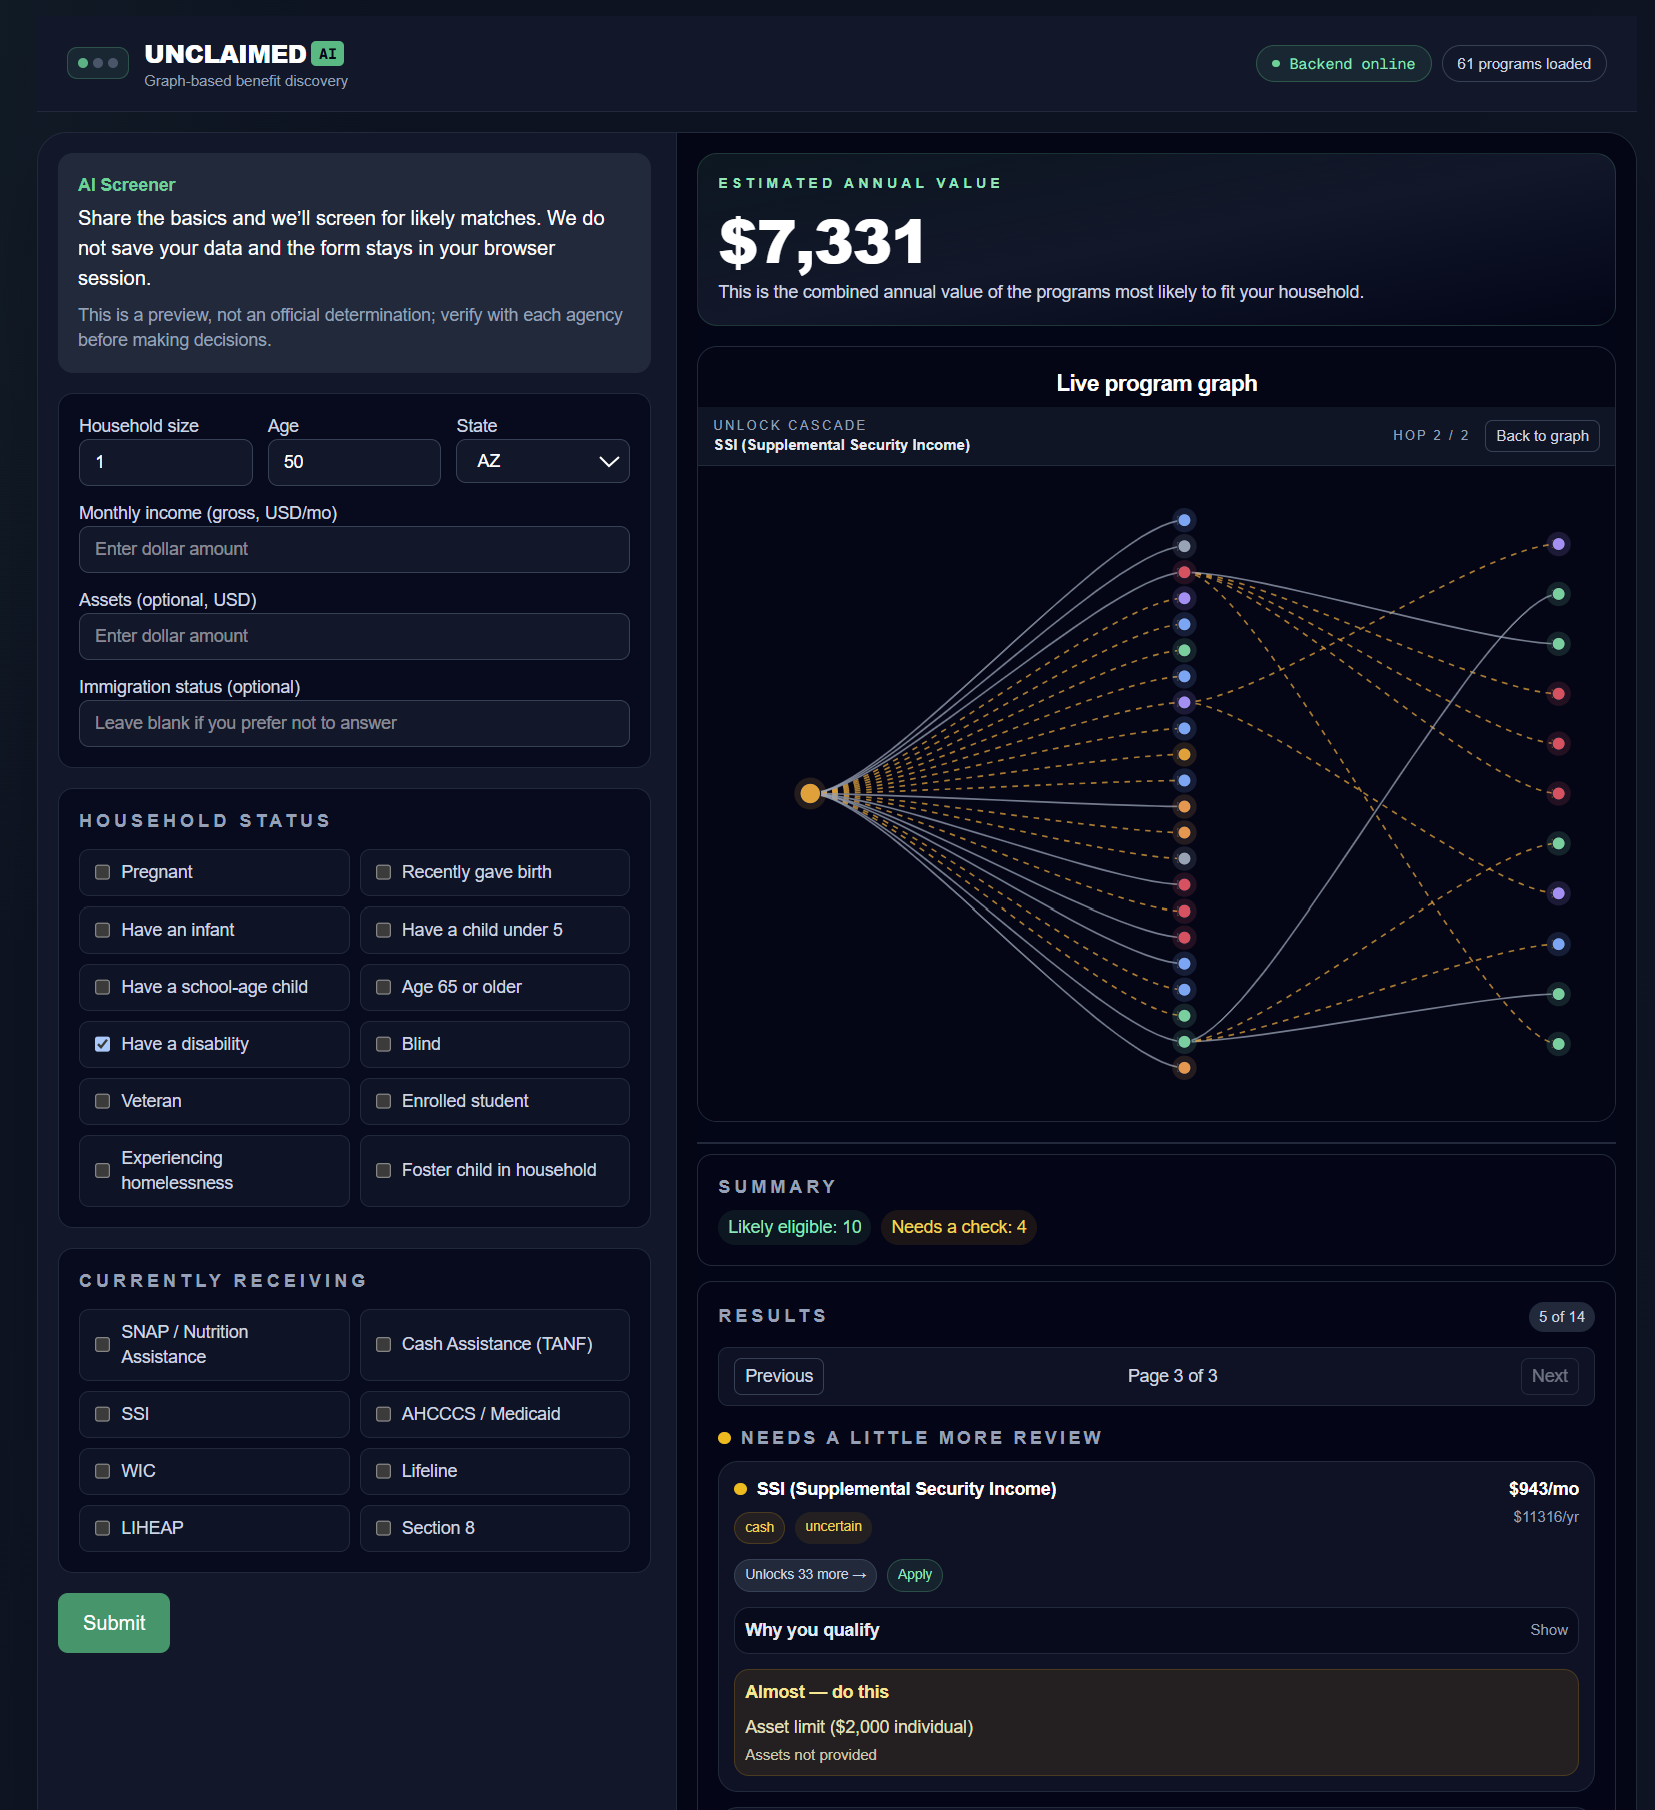
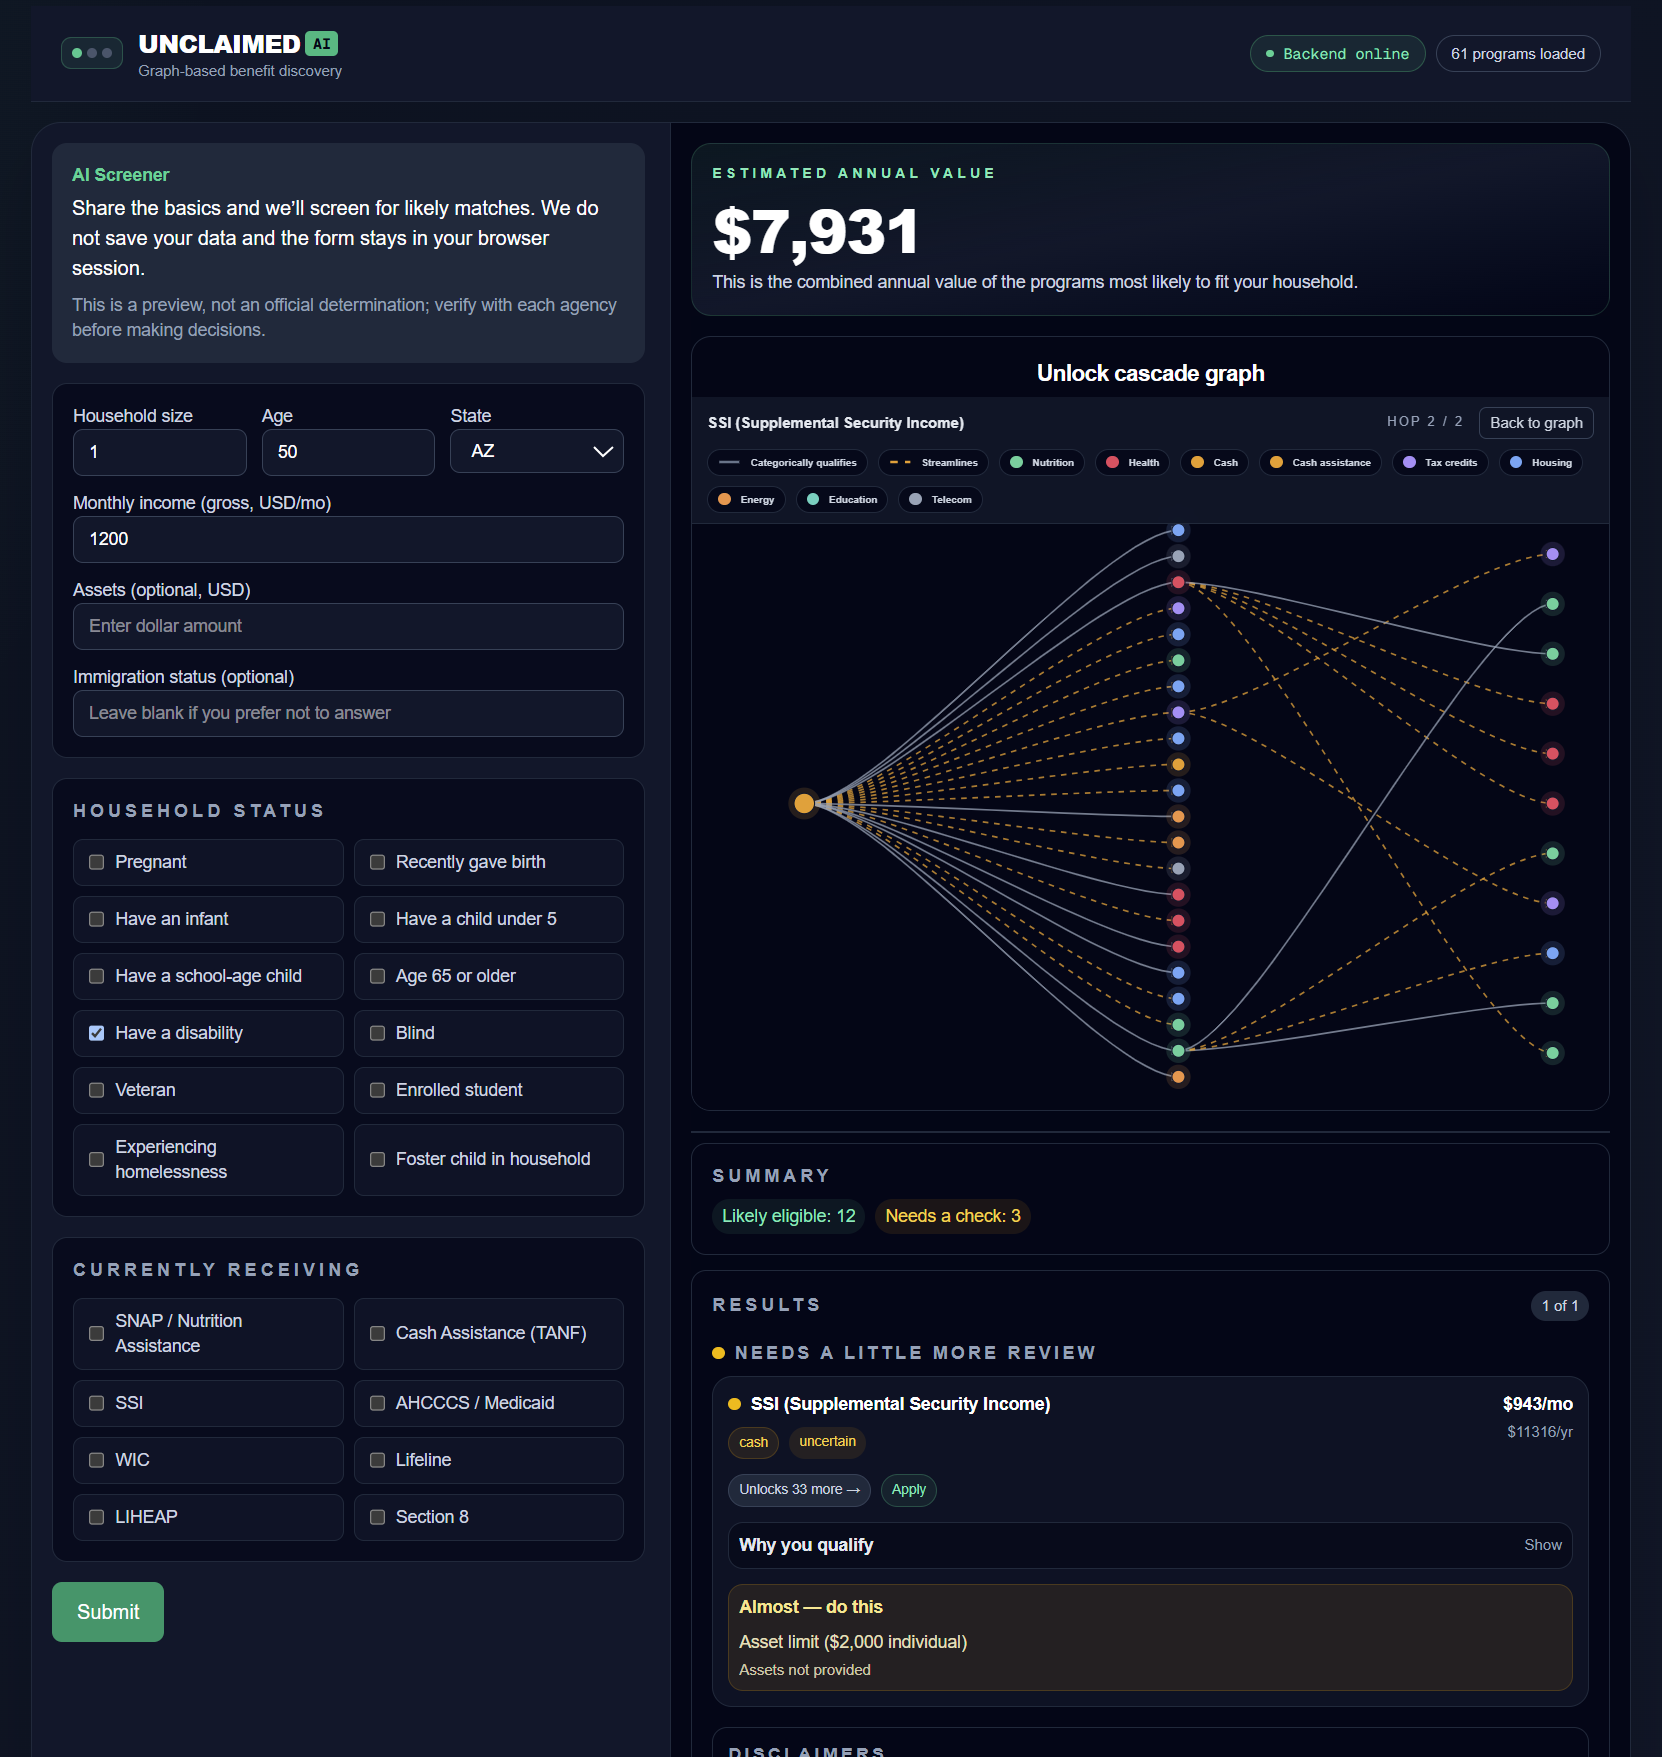
feat: update demo script for clarity and expand timing; add new screenshots for dashboard cascade

diff --git a/README.md b/README.md
@@ -20,39 +20,39 @@ Unclaimed helps people move from confusion to confidence and from missed support
 
 ## 2-Minute Demo Script
 
-### 0:00-0:20
+### 0:00-0:24
+Hi, I am Amber.
 Today I’m showing Unclaimed, an AI-powered benefits copilot.
 The problem is simple: millions of people qualify for support but never claim it because the system is fragmented and hard to navigate.
 Unclaimed turns that complexity into clear, actionable next steps.
+
+### 0:24-0:38
 Currently, this demo focuses on US-based programs but could be expanded worldwide.
+On the left, I am going to go ahead and enter some household details into this form.
 
-### 0:20-0:45
-On the left, I enter household details in a guided intake form.
-This is intentionally lightweight so people can start quickly.
-When I submit, Unclaimed screens programs and ranks likely matches based on the household profile.
+### 0:38-1:07
+Just give me one moment to do that. 
+And once I hit submit into this guided intake form, which is intentionally lightweight so people can start quickly, the left side is going to update, showing results.
 
-### 0:45-1:10
-Now we see the results panel.
-Each card shows estimated monthly and annual value, plus verdict status like likely eligible or needs review.
-The key trust feature is Why you qualify, where each recommendation includes rule-based reasoning and source citations.
+### 1:07-1:29
+Each card shows estimated monthly and annual value, plus a verdict status like likely eligible or needs review.
+The key trust feature is Why you qualify, where each recommendation includes rule-based reasoning and source citation.
 
-### 1:10-1:30
-On the right is the live program graph.
-This visual shows that benefits are connected, not isolated.
-If I filter by category, both the graph and results stay in sync, so users can focus on exactly what matters.
+### 1:29-1:52
+Above the results is a live graph program. 
+This visual shows the benefits are connected, not isolated. 
+If I filter, which I'm going to do for cash here in a moment, the graph and the results stay in sync.
 
-### 1:30-1:50
-Here’s the money shot: Unlocks N more.
-Clicking it opens a cascade view from that program and reveals downstream opportunities hop-by-hop.
-Edges are styled by relationship type, so you can immediately distinguish direct categorical qualification from streamline pathways.
+### 1:52-2:09
+So the user can focus on exactly what matters. 
+Now let's look at the money shot: Unlocks 33 more. 
+Clicking it opens a cascade view of that program and reveals downstream opportunities, hop by hop.
 
-### 1:50-2:00
-So instead of asking people to decode policy complexity, Unclaimed gives them a prioritized path: what they likely qualify for now, why, and what to do next to unlock more support.
+### 2:09-2:34
+The edges are styled by relationship types, so you can immediately distinguish direct categorical qualifications from streamlined pathways. 
+So instead of asking people to decode policy complexity, Unclaimed gives them a prioritized path, what they likely qualify for now, why, and what to do next to unlock more support. 
 
-The UI is designed as a split-screen dashboard with:
-- a left-side chat and profile panel for user input and eligibility insights
-- a right-side live program dependency graph visualization
-- ranked discovery cards showing likely benefits and claim guidance
+Now I'm going to hand you over to Jean and she will demo the back end.
 
 ## Screenshots
 
